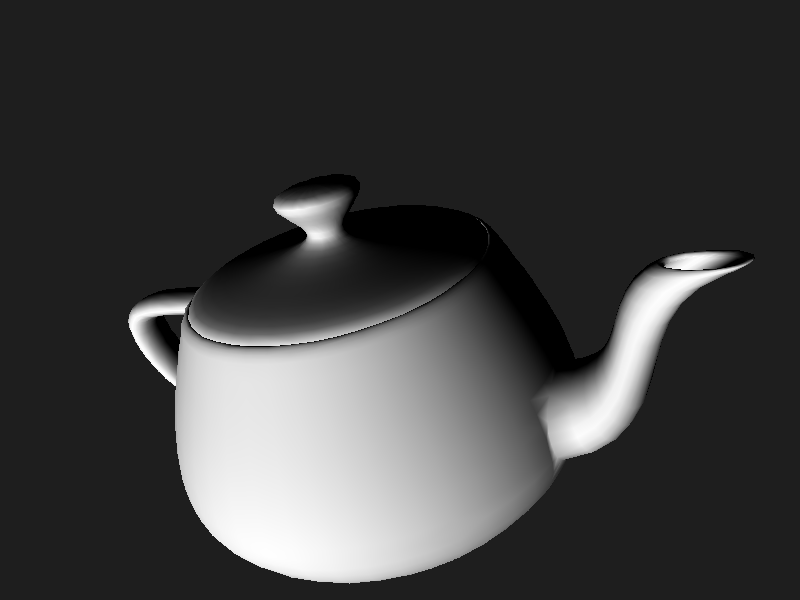
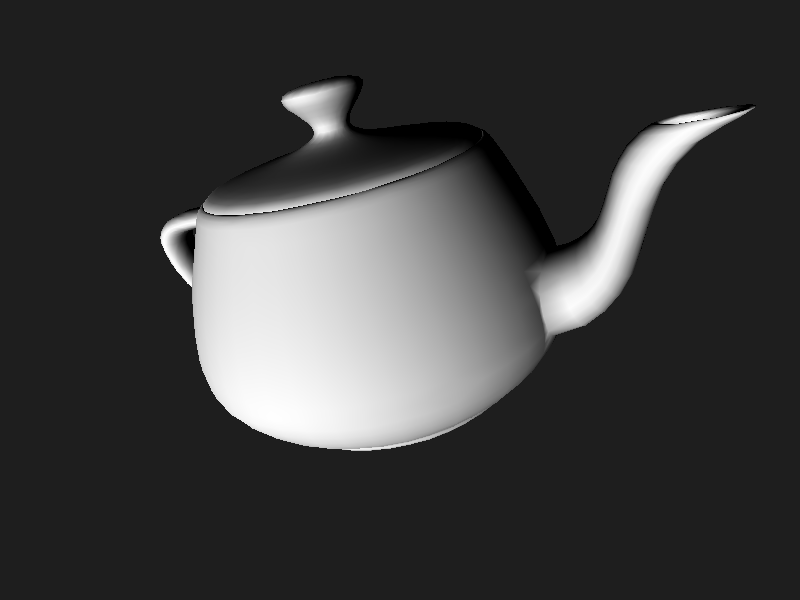
projection clip

diff --git a/main.cpp b/main.cpp
@@ -7,28 +7,31 @@
 
 int main()
 {
-    FrameBuffer fb(800, 600);
+    // framebuffer
+    const int WIDTH = 800;
+    const int HEIGHT = 600;
+
+    FrameBuffer fb(WIDTH, HEIGHT);
 
     fb.clear({30,30,30});
-
+    // load obj
     OBJLoader obj;
-
     if (!obj.load("assets/teapot.obj"))
     {
         return -1;
     }
 
+    // light
     Vec3 lightDir =
-        Vec3(0, 0, -1).normalize();
+        Vec3(0, 0, 1).normalize();
 
-    // =========================
+
     // MVP
-    // =========================
-
+    // 模型旋转
     Mat4 model =
         Mat4::rotation(
-            -0.5f,
-             0.5f,
+            0.5f,
+             -0.5f,
              0.0f
         );
 
@@ -36,14 +39,25 @@ int main()
     Mat4 view =
         Mat4::translation(
             0,
-            -45,
-            180
+           -20,
+           -150
         );
 
-    float focalLength = 700.0f;
+    // 透视矩阵
+    Mat4 projection =
+        Mat4::perspective(
+            M_PI / 3.0f,
+            (float)WIDTH / HEIGHT,
+            0.1f,
+            1000.0f
+        );
+
+    // render
 
     for (const auto& face : obj.faces)
     {
+
+
         if (face.v0 < 0 || face.v0 >= obj.vertices.size() ||
             face.v1 < 0 || face.v1 >= obj.vertices.size() ||
             face.v2 < 0 || face.v2 >= obj.vertices.size())
@@ -51,66 +65,78 @@ int main()
             continue;
         }
 
-        // =========================
-        // 原始顶点
-        // =========================
+        // original vertices
+
 
         Vec3 v0 = obj.vertices[face.v0];
         Vec3 v1 = obj.vertices[face.v1];
         Vec3 v2 = obj.vertices[face.v2];
 
-        // =========================
-        // MVP
-        // =========================
-
         Vec4 p0(v0.x, v0.y, v0.z, 1);
         Vec4 p1(v1.x, v1.y, v1.z, 1);
         Vec4 p2(v2.x, v2.y, v2.z, 1);
 
-        p0 = view * model * p0;
-        p1 = view * model * p1;
-        p2 = view * model * p2;
+        // MVP transform
 
-        v0 = Vec3(p0.x, p0.y, p0.z);
-        v1 = Vec3(p1.x, p1.y, p1.z);
-        v2 = Vec3(p2.x, p2.y, p2.z);
 
-        // =========================
-        // near clip
-        // =========================
+        p0 = projection * view * model * p0;
+        p1 = projection * view * model * p1;
+        p2 = projection * view * model * p2;
 
-        if (v0.z <= 0 ||
-            v1.z <= 0 ||
-            v2.z <= 0)
+        // perspective divide
+
+        if (fabs(p0.w) < 0.0001f ||
+            fabs(p1.w) < 0.0001f ||
+            fabs(p2.w) < 0.0001f)
         {
             continue;
         }
 
-        // =========================
-        // perspective
-        // =========================
+        p0.x /= p0.w;
+        p0.y /= p0.w;
+        p0.z /= p0.w;
+
+        p1.x /= p1.w;
+        p1.y /= p1.w;
+        p1.z /= p1.w;
+
+        p2.x /= p2.w;
+        p2.y /= p2.w;
+        p2.z /= p2.w;
+
+        // clip
+
+
+        if (p0.z < -1 || p0.z > 1 ||
+            p1.z < -1 || p1.z > 1 ||
+            p2.z < -1 || p2.z > 1)
+        {
+            continue;
+        }
+
+        // viewport transform
 
         int x0 =
-            (v0.x / v0.z) * focalLength + 400;
+            (p0.x + 1.0f) * 0.5f * WIDTH;
 
         int y0 =
-            300 - (v0.y / v0.z) * focalLength;
+            (1.0f - p0.y) * 0.5f * HEIGHT;
 
         int x1 =
-            (v1.x / v1.z) * focalLength + 400;
+            (p1.x + 1.0f) * 0.5f * WIDTH;
 
         int y1 =
-            300 - (v1.y / v1.z) * focalLength;
+            (1.0f - p1.y) * 0.5f * HEIGHT;
 
         int x2 =
-            (v2.x / v2.z) * focalLength + 400;
+            (p2.x + 1.0f) * 0.5f * WIDTH;
 
         int y2 =
-            300 - (v2.y / v2.z) * focalLength;
+            (1.0f - p2.y) * 0.5f * HEIGHT;
 
-        // =========================
-        // vertex normals
-        // =========================
+
+        // normals
+
 
         Vec3 n0 = obj.normals[face.v0];
         Vec3 n1 = obj.normals[face.v1];
@@ -128,18 +154,18 @@ int main()
             std::max(0.0f,
             n2.dot(lightDir));
 
-        // =========================
         // rasterize
-        // =========================
+
 
         fb.drawTriangle(
-            x0, y0, v0.z,
-            x1, y1, v1.z,
-            x2, y2, v2.z,
+            x0, y0, p0.z,
+            x1, y1, p1.z,
+            x2, y2, p2.z,
             i0, i1, i2
         );
     }
 
+    // save
     fb.savePNG("output.png");
 
     return 0;

diff --git a/mat4.h b/mat4.h
@@ -157,6 +157,34 @@ struct Mat4
 
         return rz * ry * rx;
     }
+
+    static Mat4 perspective(
+    float fov,
+    float aspect,
+    float near,
+    float far)
+    {
+        Mat4 r = {};
+
+        float tanHalfFov =
+            tan(fov / 2.0f);
+
+        r.m[0][0] =
+            1.0f / (aspect * tanHalfFov);
+
+        r.m[1][1] =
+            1.0f / tanHalfFov;
+
+        r.m[2][2] =
+            -(far + near) / (far - near);
+
+        r.m[2][3] =
+            -(2.0f * far * near) / (far - near);
+
+        r.m[3][2] = -1.0f;
+
+        return r;
+    }
 };
 
 #endif

diff --git a/framebuffer.cpp b/framebuffer.cpp
@@ -128,7 +128,7 @@ void FrameBuffer::setPixelDepth(int x,int y,float depth,Color color)
     }
 
     int index = y * width + x;
-
+    //z-buffer depth test
     if (depth < depthBuffer[index])
     {
         depthBuffer[index] = depth;